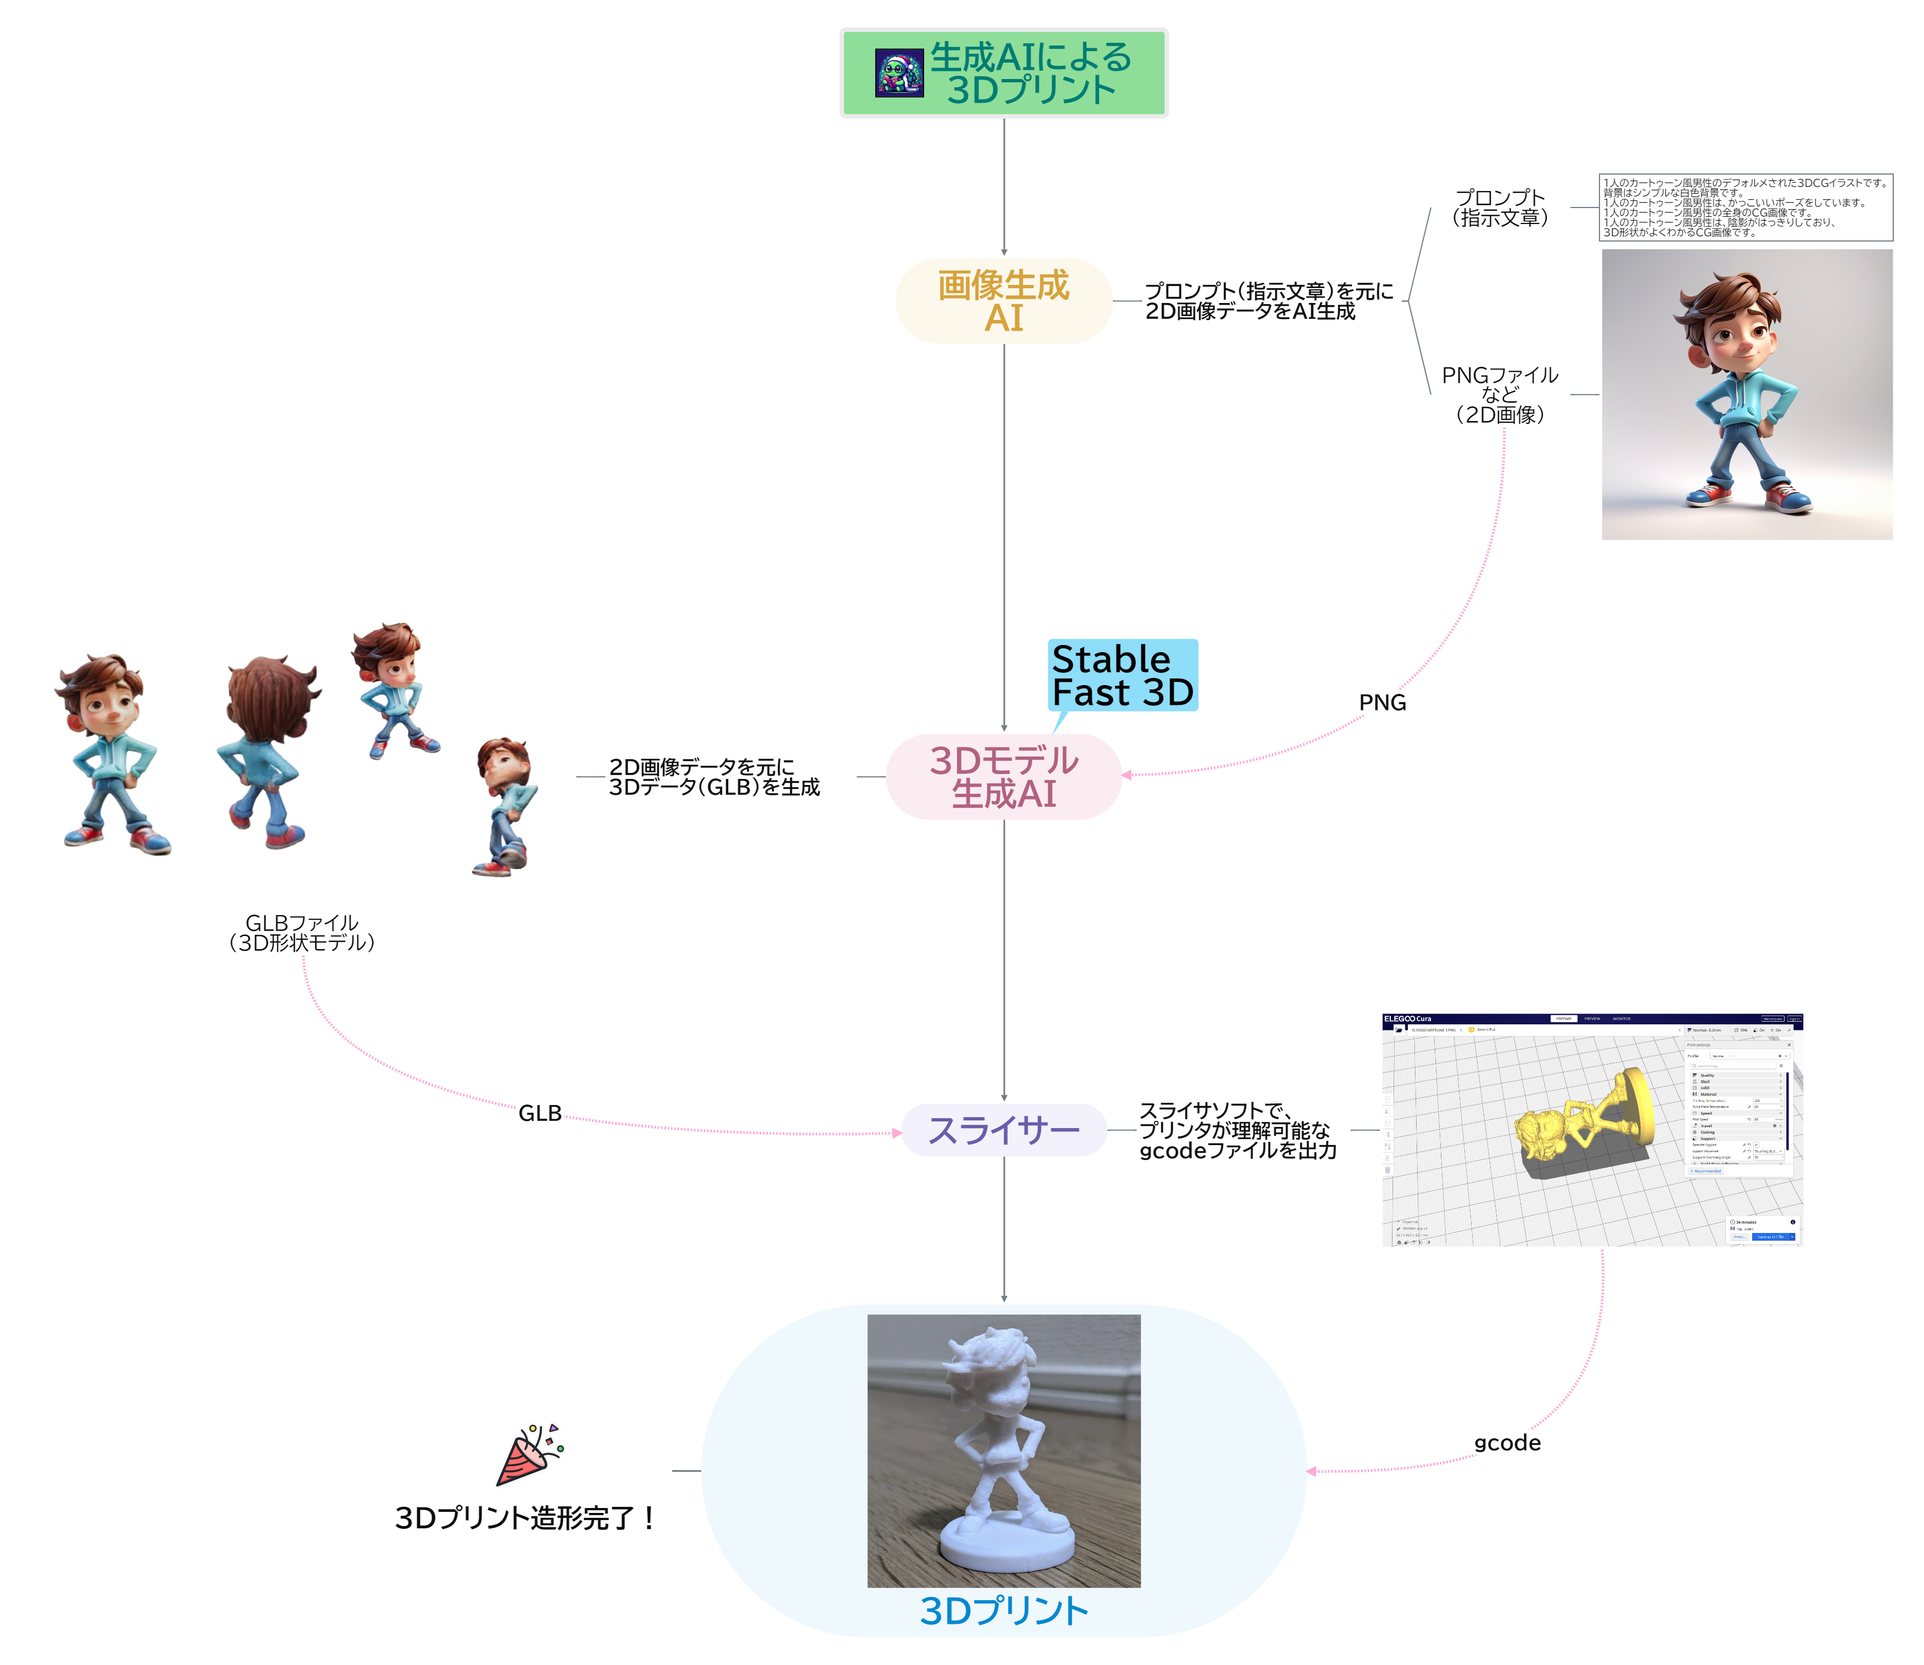
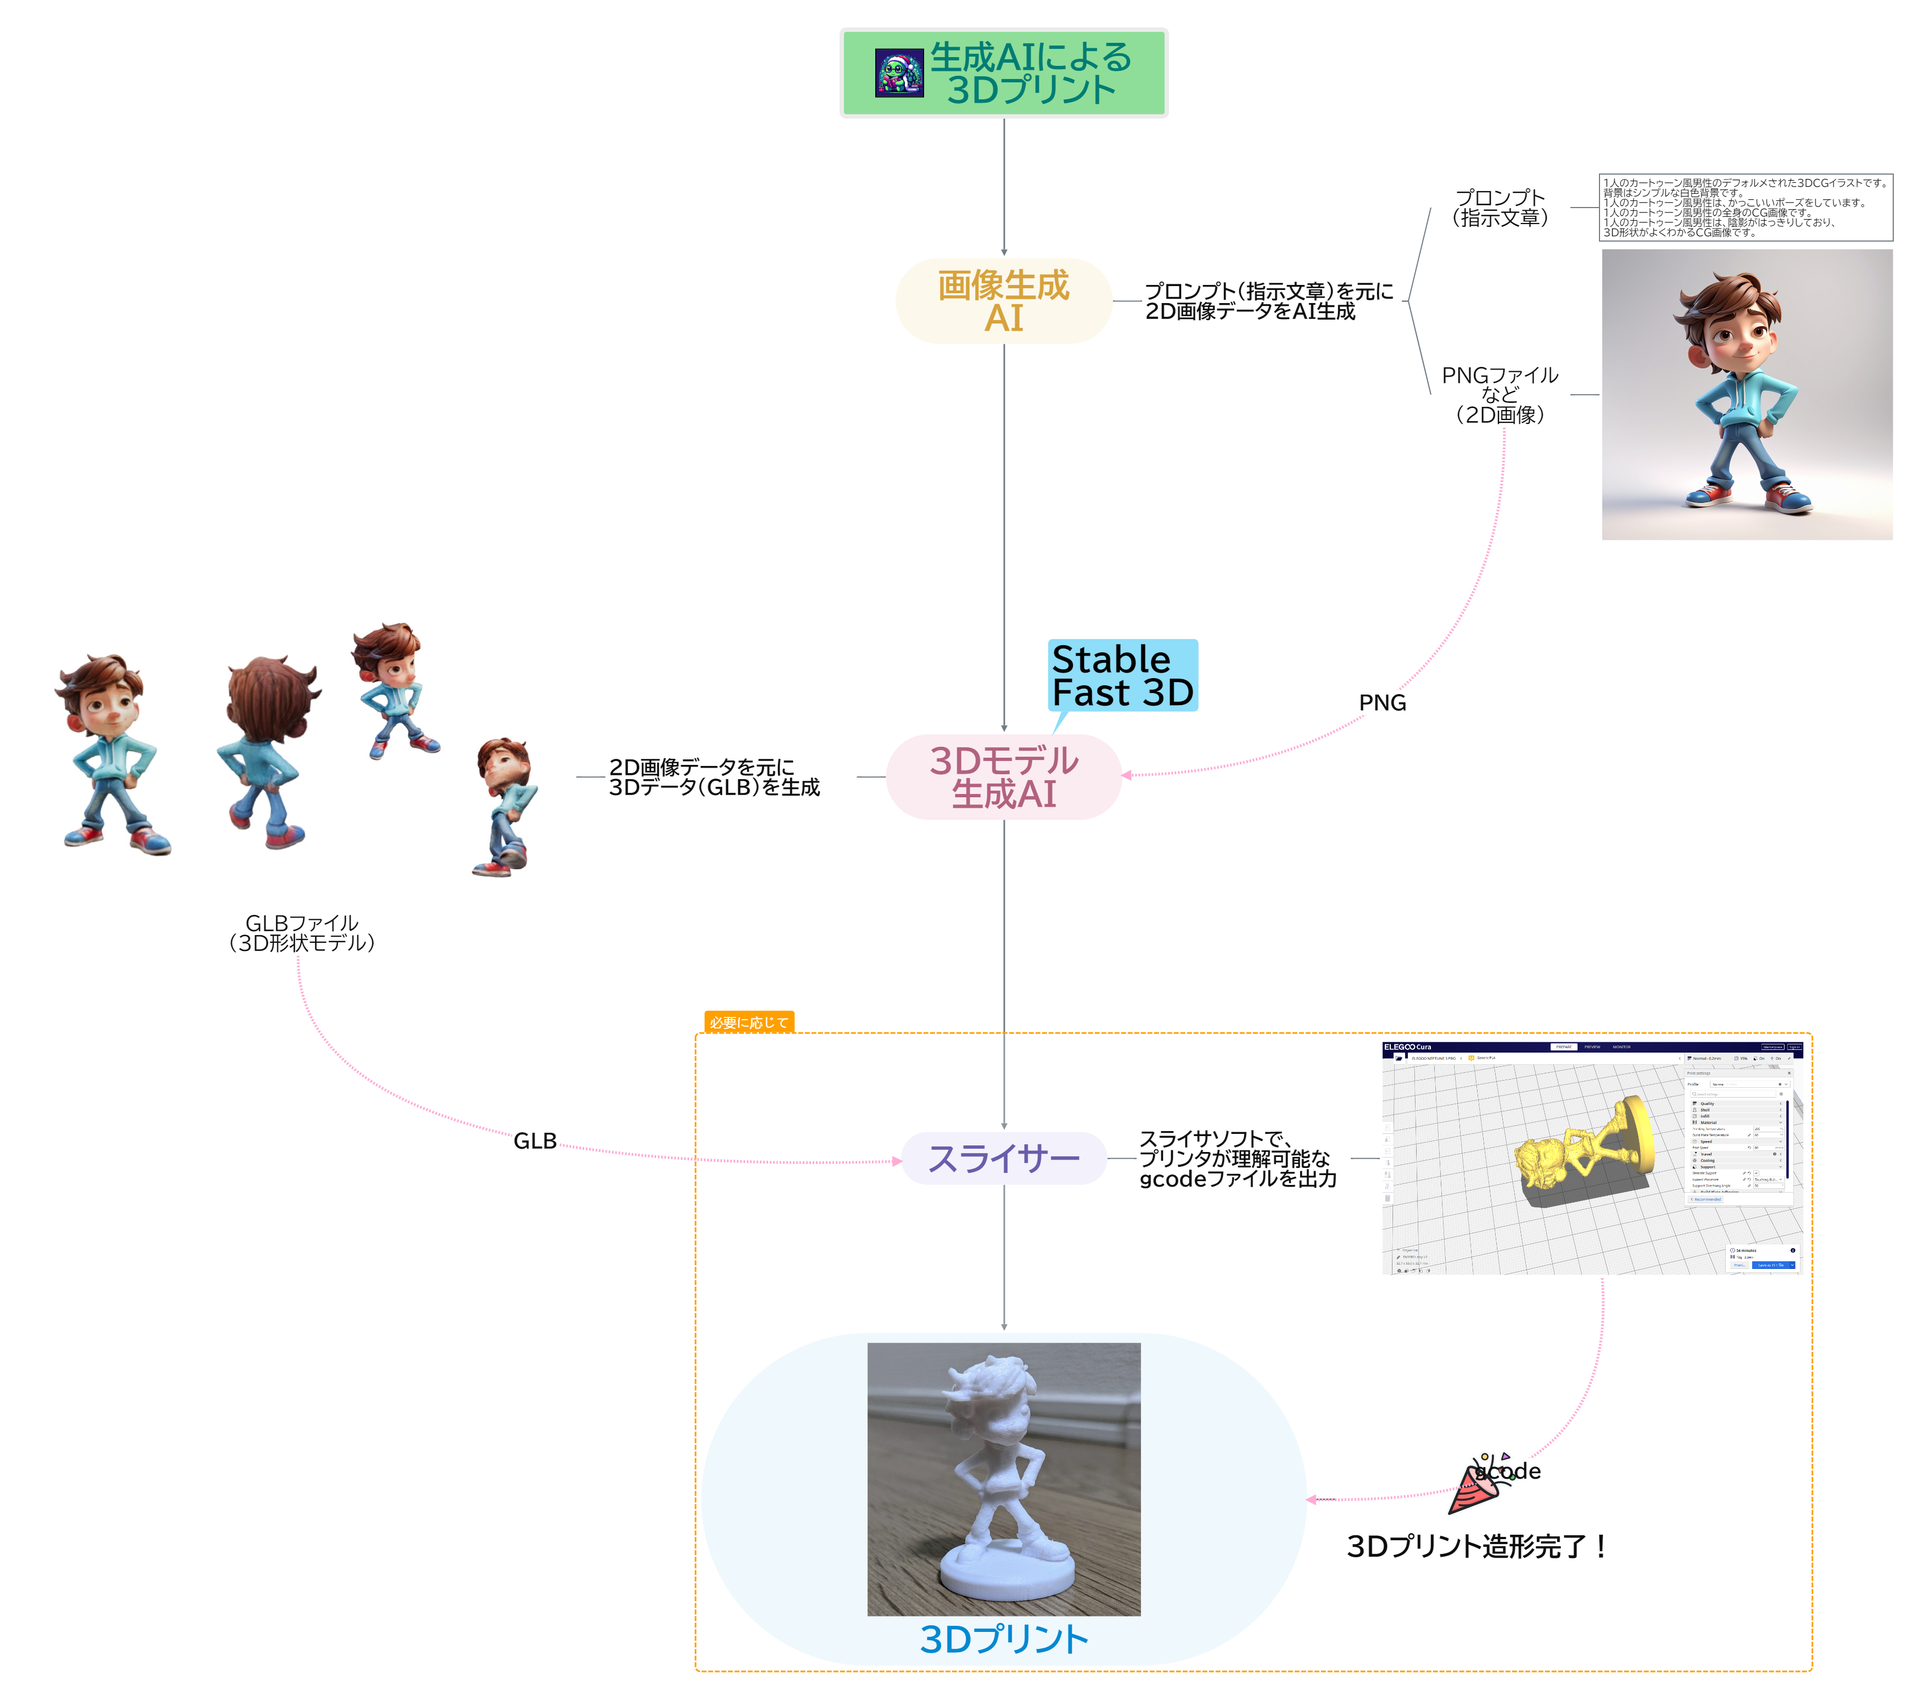
sf3d 初期作成

diff --git a/articles/turtle-20240803-stable-fast.md b/articles/turtle-20240803-stable-fast.md
@@ -472,127 +472,97 @@ C:\Program Files\NVIDIA GPU Computing Toolkit\CUDA\v12.3\include\crt/host_config
 
 ## 実行手順
 
-作成の流れをつかみやすくするために、ブログの最初で示した図を再掲します。この図の順序に従って、画像生成AIで画像を作成する際のポイントや、TripoSRの具体的な使い方などを説明します。
+作成の流れをつかみやすくするために、ブログの最初で示した図を再掲します。この図の順序に従って、画像生成AIで画像を作成や、Stable Fast 3Dの具体的な使い方を説明します。
 
-![](/images/turtle-20240721-tripo-3dp/ai_3d_flow.png)
-*生成AIによる3Dプリントの流れ（再掲）*
+![](/images/turtle-20240803-stable-fast/flow.png)
+*3Dデータ作成の流れ（再掲）*
 
 ### ●画像生成AI
 
-まず、TripoSRにインプットするための画像を、画像生成AIで作成します。ここでは、手軽に画像を生成する方法と、その際のコツを紹介します。
+まず、Stable Fast 3Dにインプットするための画像を、画像生成AIで作成します。ここでは、手軽に画像を生成する方法をご紹介します。
 
 #### 手軽に画像を生成する方法
 
-画像生成AIは、普段使い慣れたものを使用するのが一番ですが、無料で画像を生成したい場合は「**Copilot**」がオススメです。無料とはいえ、侮るなかれ。Copilotは、DALL-E3というChatGPTと同じ画像生成AIを使用しているため、とてもきれいな画像を生成できます！
+画像生成AIは、普段使い慣れたものを使用するのが一番ですが、無料で画像を生成したい場合は「**Copilot**」がオススメです。Copilotは、DALL-E3というChatGPTと同じ画像生成AIを使用しているため、とてもきれいな画像を生成できます！
 
-使い方はとても簡単です。Microsoft Edgeブラウザを開き、検索欄の「Copilotを開く」アイコンをクリックします。
+Microsoft Edgeブラウザの検索欄で「Copilotを開く」アイコンをクリックし、画像生成のためのプロンプト（指示文）を入力するだけで画像を生成することができます。
 
 ![](/images/turtle-20240721-tripo-3dp/cop_icon.png =600x)
 *Copilotアイコン*
 
-あとは、画像生成のためのプロンプト（指示文）を入力するだけで画像が生成されます。
+### ●3Dモデル生成AI（Stable Fast 3D）
 
-#### TripoSR向けの画像生成のコツ
+画像生成AIで作成した画像を元に、Stable Fast 3Dでデータを作成します。ここでは、Stable Fast 3Dの使い方を紹介します。
 
-通常、画像生成AIを利用するときは、非常に凝ったプロンプトを考えます。しかし、TripoSR向けの画像を生成する場合は、それほど凝る必要はありません。ポイントは次の2点です。
+#### Stable Fast 3Dの使い方
 
-- **シンプルな背景にする**
-- **3D形状を把握しやすい画像を生成する**
+Stable Fast 3Dの使い方を説明します。シンプルな操作なので、使い方に戸惑うことはないと思います。
 
-TripoSRは、ノイズとなるものが多い複雑な背景では失敗しやすいため、シンプルな背景にします。また、平面的な画像から3Dデータを作成することも苦手ですから、できる限り3D形状を把握しやすい画像を生成することがポイントです。具体的に示します。
+1. **Stable Fast 3Dを起動**
+環境構築時に作成した起動用バッチファイル「sf3d_run.bat」を実行して、Stable Fast 3Dを起動します。なお、Tipsには次のような内容が記載されています。
+**Tipsに記載の内容**
+・画像にすでにアルファチャンネルが含まれている場合、背景除去のステップをスキップできます。
+・前景比率を調整して前景オブジェクトのサイズを制御できます。これにより形状に影響を与えることができます。
+・メッシュトポロジーを制御するためにリメッシュオプションを選択できます。薄い表面ではメッシュにアーティファクトが発生する可能性があるため、その場合はオフにする必-要があります。
+・独自のHDR環境マップをアップロードして3Dモデルを照らすことができます。
 
-![](/images/turtle-20240721-tripo-3dp/boy_3d.jpg =300x)
-*カートゥーン風男性 AI生成画像*
+![](/images/turtle-20240803-stable-fast/sf3d_1.png)
+*起動後の画面*
 
-```text: プロンプト
-1人のカートゥーン風男性のデフォルメされた3DCGイラストです。
-背景はシンプルな白色背景です。
-1人のカートゥーン風男性は、かっこいいポーズをしています。
-1人のカートゥーン風男性の全身のCG画像です。
-1人のカートゥーン風男性は、陰影がはっきりしており、3D形状がよくわかるCG画像です。
-```
+2. **2D画像用意・背景除去**
+2D画像を開き「Remove Background」ボタンを押して、背景を除去します。
+Foreground Ratioを調整することで、前景オブジェクトのサイズを制御して、結果に影響を与えることができます。
 
-![](/images/turtle-20240721-tripo-3dp/cargo_3d.jpg =300x)
-*タイヤ付きゴミ箱 AI生成画像*
+![](/images/turtle-20240803-stable-fast/sf3d_2.png)
+*2D画像用意・背景削除操作画面*
 
-```text: プロンプト
-古びたゴミ箱の3DCGイラストです。
-背景はシンプルな白色背景です。
-ゴミ箱は、古びた感じがあり、錆びている部分もあります。
-蓋とタイヤがあるシンプルなデザインのゴミ箱です。
-陰影がはっきりしており、3D形状がよくわかるCG画像です。
-```
+3. **3Dデータ作成**
+背景除去後「Run」ボタンを押し、3Dデータを作成します。
 
-どちらのプロンプトも、シンプルな背景と3D形状を把握しやすい画像を生成することを重視しています。これにより、生成された画像を使用することで、TripoSRは3Dデータをより正確に生成しやすくなり、成功率も高まります。シンプルな背景はノイズを減らし、3D形状の明確な表現はデータの精度を向上させるため、これらのポイントを押さえたプロンプトが効果的です。
+![](/images/turtle-20240803-stable-fast/sf3d_3.png)
+*データ作成操作画面*
 
-### ●3Dモデル生成AI（TripoSR）
+4. **データ作成完了・ダウンロード**
+データ作成完了です。画面右の赤枠で示したボタンを押すことで、データをダウンロードできます。
 
-画像生成AIで作成した画像を元に、TripoSRで3Dデータを作成します。ここでは、TripoSRの使い方と、いくつかのパターンを試した際の成功事例と失敗事例を紹介します。
+![](/images/turtle-20240803-stable-fast/sf3d_4.png)
+*データ作成完了・ダウンロード操作画面*
 
-#### TripoSRの使い方
+5. **仕上がりの確認・照明効果変更**
+仕上がりは自由な角度から確認でき、サンプルや自作のHDR環境マップを適用することで照明条件を変更することもできます。とてもきれいな仕上がりに大変驚きます。
 
-環境構築時に作成した起動用バッチファイル「tripo_run.bat」を実行して、TripoSRを起動します。起動後のアプリケーションの使い方は、以下のgif動画で動きを交えながら説明します。キャプションも画面下部に表示していますので、あわせてご確認ください。シンプルな操作なので、使い方に戸惑うことはないと思います。
-
-![](/images/turtle-20240721-tripo-3dp/tripo_use_gif.gif)
-*TripoSR 使い方 gif動画*
-
-#### 3Dデータ成功・失敗事例
-
-いくつか試した中から、成功事例と失敗事例をピックアップして紹介します。それぞれの結果について寸評を述べます。
-
-![](/images/turtle-20240721-tripo-3dp/tripo_result.jpg)
-*TripoSR 成功・失敗事例*
-
-##### 成功事例
-
-- **男性キャラ**
-  人型のキャラは成功しにくいと思っていましたが、意外と成功します。AIが人間をイメージしやすいのかもしれません。
-- **カーゴタイプゴミ箱**
-  画像では見えていないタイヤの部分も3Dデータとして出力されており、結果にとても驚きました！
-- **ゴミ箱**
-  単純な形状は比較的成功率が高く、質感も含めて高品質に出力されました。
-
-##### 失敗事例
-
-- **カメ**
-  奥行き方向の距離感が掴めていないようで、前後にギュッと縮んだ感じになりました。個人的に成功してほしかったです…。
-- **植物**
-  成功しそうな形状ですが、結果は失敗です。植物の位置関係など、少しバランスが悪いことが影響しているかもしれません。
-- **イチゴキューブ**
-  透明なものや複数のものが存在すると失敗するようです。
-
-### ●3D CADソフト（Fusion）
-
-FusionによるOBJファイルからSTLファイルへの変換方法をgif動画で示します。Fusionは非常に魅力的なソフトですが、今回は変換のみに使用します。なお、Fusionは商用利用ではない個人利用の場合、一部機能が制限されますが、無料で利用できます（個人利用では全く問題ないレベルです）。
-
-![](/images/turtle-20240721-tripo-3dp/fusion_use_gif.gif)
-*Fusion 使い方 gif動画*
+![](/images/turtle-20240803-stable-fast/sf3d_result.gif)
 
 ### ●スライサー＆プリンタ
 
-あとは、いつも通り使い慣れたスライサーとプリンタを使って印刷を行うだけです👍
+引き続き、出力した3Dデータを3Dプリンタで印刷したい場合、いつも通り使い慣れたスライサーとプリンタを使って印刷を行うだけです👍
+よく利用されているcuraというスライサーソフトであれば、GLBファイルを読み込むことが可能です。ソフトを起動したら、GLBファイルをドラッグ＆ドロップしてください。
 
 ![](/images/turtle-20240721-tripo-3dp/slice_print.jpg)
 *スライサー＆3Dプリント*
 
-このように、画像一枚から素敵な造形物たちが誕生しました！
-
-![](/images/turtle-20240721-tripo-3dp/result.jpg)
-*1枚の画像から作られた造形物たち*
+:::message
+スライサーソフトでGLBファイルを読み込むと、Z軸の位置がとても高い位置になっていることがあるので、その場合はZ軸の位置を「0」にしてください。
+:::
 
 以上で全ての説明は完了となります！
 本当にお疲れさまでした🎉
 
 ## まとめ
 
-画像1枚から3Dプリンタで造形物を作ることができました。AIはこれまで文章や画像、プログラミングなどパソコンの中で扱うことが多かったですが、今回の内容で実際のモノづくりにも生かせることが分かりました。今はまだ途上の技術ですが、これからが本当に楽しみです。
+少しでも早く記事をお届けするため、TripoSRの時の記事を流用しつつ、Stable Fast 3Dに関する部分についてはしっかり書き起こしました。それにしても、TripoSRがリリースされてから約5か月でこの進化は、本当にすごいです（語彙力）！私は、3Dプリンタに何か生かせないかなと思って始めましたが、また別のことにチャレンジしてみるのも面白そうだと思いました。
 
-この記事を読んだ方のAIライフ、3Dプリンタライフがさらに充実したものになればと思います。もし、分からないことや、ちょっとした疑問などありましたら、遠慮なくコメント欄に書き込んでください。🐢
+この記事を読んだ方も是非様々取り組みに活用してみてください。もし、分からないことや、ちょっとした疑問などありましたら、遠慮なくコメント欄に書き込んでください。🐢
 
-今回も長い記事になりましたが、最後まで読んでくださりありがとうございました！
+最後まで読んでくださりありがとうございました！
 
 ## リンク
 
 私が書いた、GitHub CopilotというAIを利用したコーディングツールの記事もあります。プログラミングに興味がある方は、ぜひこちらの記事も読んでみてください。AIをうまく活用すると、モノづくりの速度が劇的に改善します。
 
 https://zenn.dev/safubuki/articles/turtle-20240223-gitcopilot
+
+Stable Fast 3Dのベースの技術であるTripoSRの記事です。
+TripoSRは少し古い技術になってしまいましたが、こちらの記事は、画像生成のコツや成功・失敗事例等も記載しています。参考になる部分もまだあると思いますので、読んでみてください。
+
+https://zenn.dev/safubuki/articles/turtle-20240721-tripo-3dp
